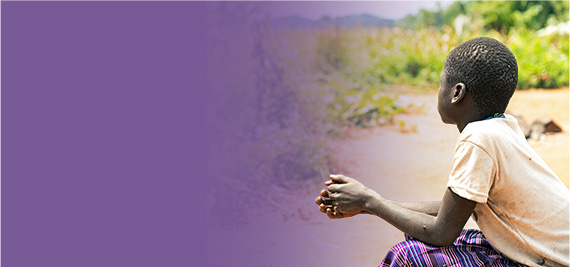
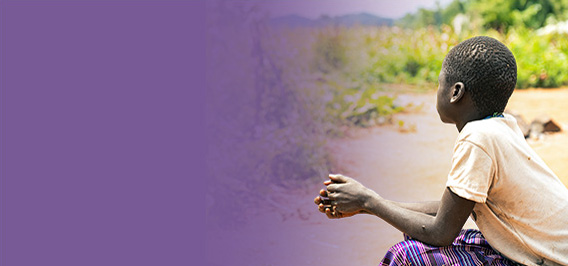
2차

diff --git a/26-1000girl/css/new.scss b/26-1000girl/css/new.scss
@@ -142,6 +142,10 @@ $breakpoints: (
     font-weight: 700;
     text-align: center;
     color: var(--c-white);
+    transition: all 0.3s;
+    &:hover {
+        transform: translateY(8px);
+    }
 
     @include media(lg) {
         width: 290px;
@@ -639,9 +643,22 @@ html, body {
                     font-size: min(26px, 4.06vw);
                     letter-spacing: -0.02em;
                     line-height: min(39px, 6.09vw);
-                    margin: min(549px, 85.78vw) auto 0;
+                    margin: min(530px, 82.81vw) auto 0;
                     border-radius: min(26px, 4.06vw);
                     padding: min(24px, 3.75vw) min(18px, 2.81vw);
+
+                    &::before {
+                        content: '';
+                        position: absolute;
+                        left: min(154px, 24.06vw);
+                        top: max(-122px, -19.06vw);
+                        display: block;
+                        width: 10%;
+                        height: min(122px, 19.06vw);
+
+                    background-image: url('../images/sec1_line_mo.png');
+                    background-repeat: no-repeat;
+                    }
                 }
 
                 &>strong {
@@ -685,6 +702,7 @@ html, body {
                         @include media(md) {
                             padding: 0 min(2px, 0.32vw);
                             height: 77%;
+                            margin-left: -1.5px;
                         }
                     }
                 }
@@ -2264,7 +2282,8 @@ html, body {
                         font-weight: 700;
 
                         @include media(md) {
-                            font-size: min(22px, 3.44vw);
+                            font-size: min(26px, 4.06vw);
+                            margin-top: min(2px, 0.31vw) !important;
                             line-height: min(40px, 6.25vw);
                         }
                     }
@@ -2280,6 +2299,7 @@ html, body {
                     position: relative;
 
                     @include media(md) {
+                        gap: min(16px, 2.5vw);
                         padding: min(3.5vw, 35px) min(6vw, 30px) min(3.5vw, 35px) min(5.94vw, 38px);
                     }
 
@@ -2345,7 +2365,7 @@ html, body {
                                 font-weight: 500;
 
                                 @include media(md) {
-                                    font-size: min(22px, 3.44vw);
+                                    font-size: min(26px, 4.06vw);
                                     line-height: min(40px, 6.25vw);
                                 }
                             }

diff --git a/26-1000girl/css/new.css b/26-1000girl/css/new.css
@@ -106,6 +106,10 @@
   font-weight: 700;
   text-align: center;
   color: var(--c-white);
+  transition: all 0.3s;
+}
+.g_floating:hover {
+  transform: translateY(8px);
 }
 @media (max-width: 1200px) {
   .g_floating {
@@ -615,9 +619,20 @@ html, body {
     font-size: min(26px, 4.06vw);
     letter-spacing: -0.02em;
     line-height: min(39px, 6.09vw);
-    margin: min(549px, 85.78vw) auto 0;
+    margin: min(530px, 82.81vw) auto 0;
     border-radius: min(26px, 4.06vw);
     padding: min(24px, 3.75vw) min(18px, 2.81vw);
+  }
+  #thousand-girl .sec1 .inner .desc::before {
+    content: "";
+    position: absolute;
+    left: min(154px, 24.06vw);
+    top: max(-122px, -19.06vw);
+    display: block;
+    width: 10%;
+    height: min(122px, 19.06vw);
+    background-image: url("../images/sec1_line_mo.png");
+    background-repeat: no-repeat;
   }
 }
 #thousand-girl .sec1 .inner .desc > strong {
@@ -660,6 +675,7 @@ html, body {
   #thousand-girl .sec1 .inner .desc span::before {
     padding: 0 min(2px, 0.32vw);
     height: 77%;
+    margin-left: -1.5px;
   }
 }
 #thousand-girl .sec2 {
@@ -2118,7 +2134,8 @@ html, body {
 }
 @media (max-width: 1024px) {
   .tab-main .acc-warp .accordion .acc-box .tit_all p {
-    font-size: min(22px, 3.44vw);
+    font-size: min(26px, 4.06vw);
+    margin-top: min(2px, 0.31vw) !important;
     line-height: min(40px, 6.25vw);
   }
 }
@@ -2133,6 +2150,7 @@ html, body {
 }
 @media (max-width: 1024px) {
   .tab-main .acc-warp .accordion .acc-box .acc-q {
+    gap: min(16px, 2.5vw);
     padding: min(3.5vw, 35px) min(6vw, 30px) min(3.5vw, 35px) min(5.94vw, 38px);
   }
 }
@@ -2192,7 +2210,7 @@ html, body {
 }
 @media (max-width: 1024px) {
   .tab-main .acc-warp .accordion .acc-box.on .acc-a .a-cont p {
-    font-size: min(22px, 3.44vw);
+    font-size: min(26px, 4.06vw);
     line-height: min(40px, 6.25vw);
   }
 }

diff --git a/26-1000girl/index.html b/26-1000girl/index.html
@@ -327,7 +327,6 @@
                                 <img src="images/sec1_title.png" alt="목걸이를 했으니 넌 이제 내 아내야." class="ob__left pc">
                                 <img src="images/sec1_title_mo.png" alt="목걸이를 했으니 넌 이제 내 아내야." class="ob__top mo">
                             </h2>
-
                             <div class="desc ob__">
                                 <strong> * </strong>
                                 <div>
